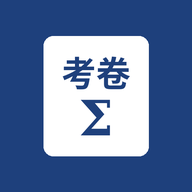
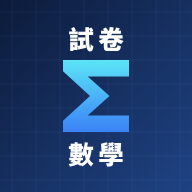
staging v1.5: 安裝圖示換新（深藍科技底、Σ 上試卷下數學）
Claude-Session: https://claude.ai/code/session_01Py57DXkWMwfVy6nmnKNGv9

diff --git a/staging/index.html b/staging/index.html
@@ -589,10 +589,10 @@ const OFFLINE=true;
 /* ===== 版號：每次推上測試站都要改 APP_BUILD（只有測試版顯示時間）。
    每發布一次正式版，版號加 0.1：發布後第一次改功能時改 APP_VER，並在 APP_LOG 最前面加一筆 ===== */
 const APP_VER='1.5';
-const APP_BUILD='2026-11-28 06:30';
+const APP_BUILD='2026-11-28 06:32';
 const APP_LOG=[
   {v:'1.5',items:[
-    '「安裝工作台」按鈕改名為「安裝到電腦」。',
+    '「安裝工作台」按鈕改名為「安裝到電腦」，安裝圖示換新（深藍底，Σ 上「試卷」下「數學」）。',
     '設定視窗分區更清楚：每個區塊有自己的顏色外框、標題色帶與編號；正在操作的區塊會亮起來。',
     '選填題：算式中間的減號設定為「佔一格」時，自動在減號格前面補一個 +（2x−4 印成 2x+□□）。',
     '版頭的科目選單固定為：數學、數學科、數學A、數學B、選修數學甲、選修數學乙（仍可自行輸入）；換年級不再自動改科目。',
